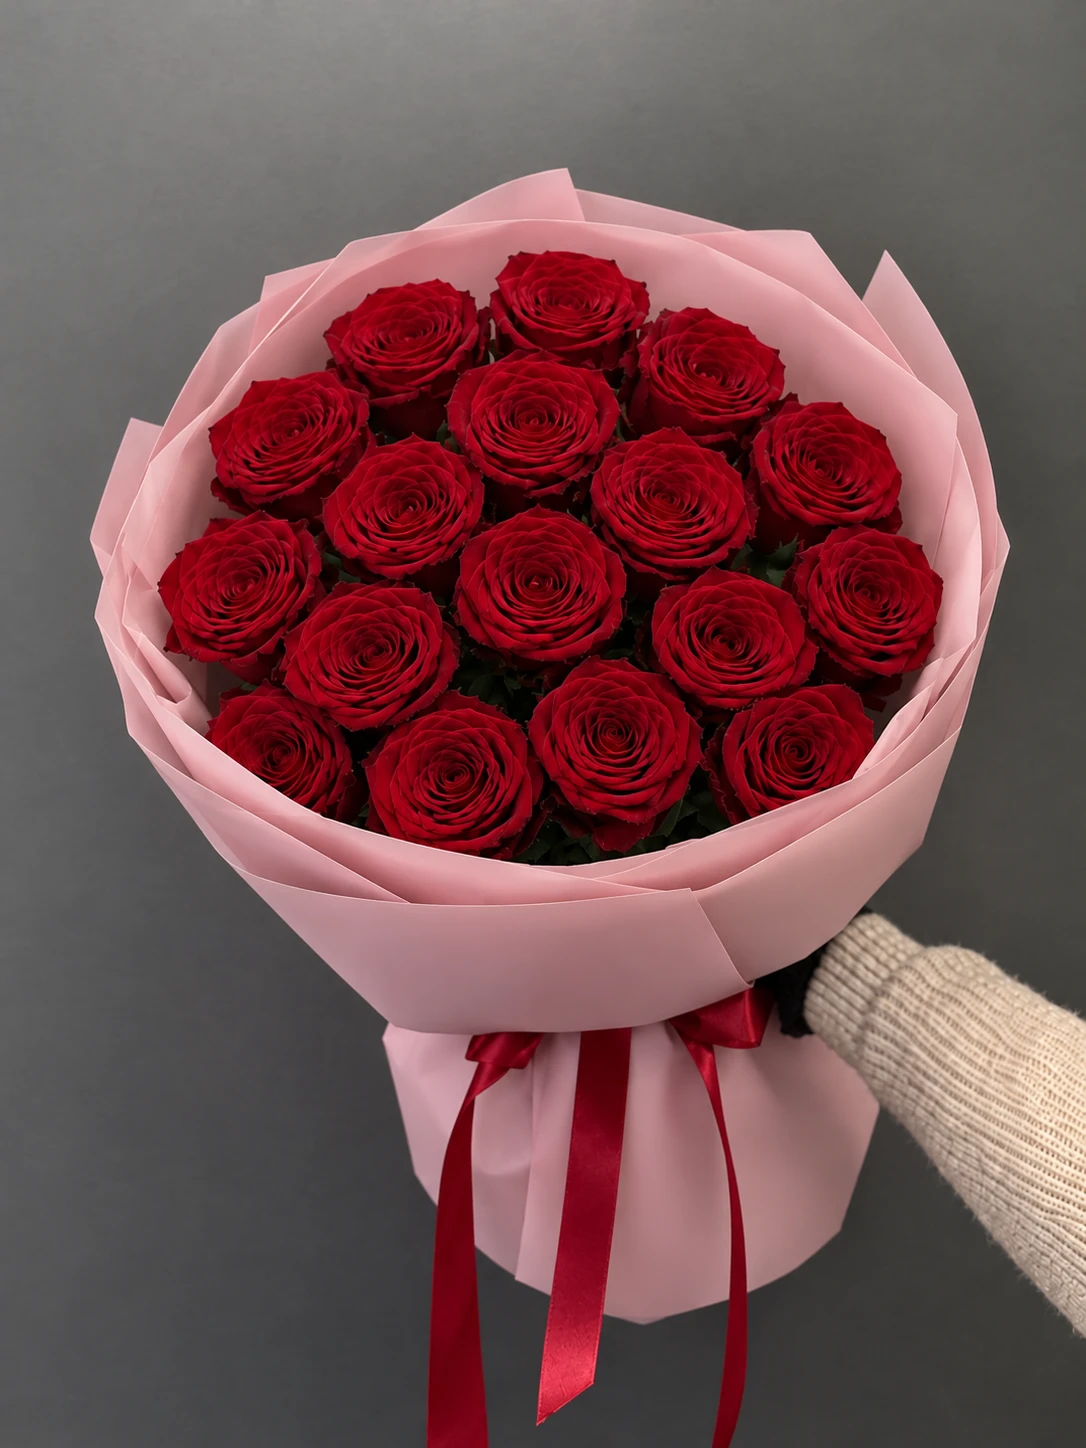
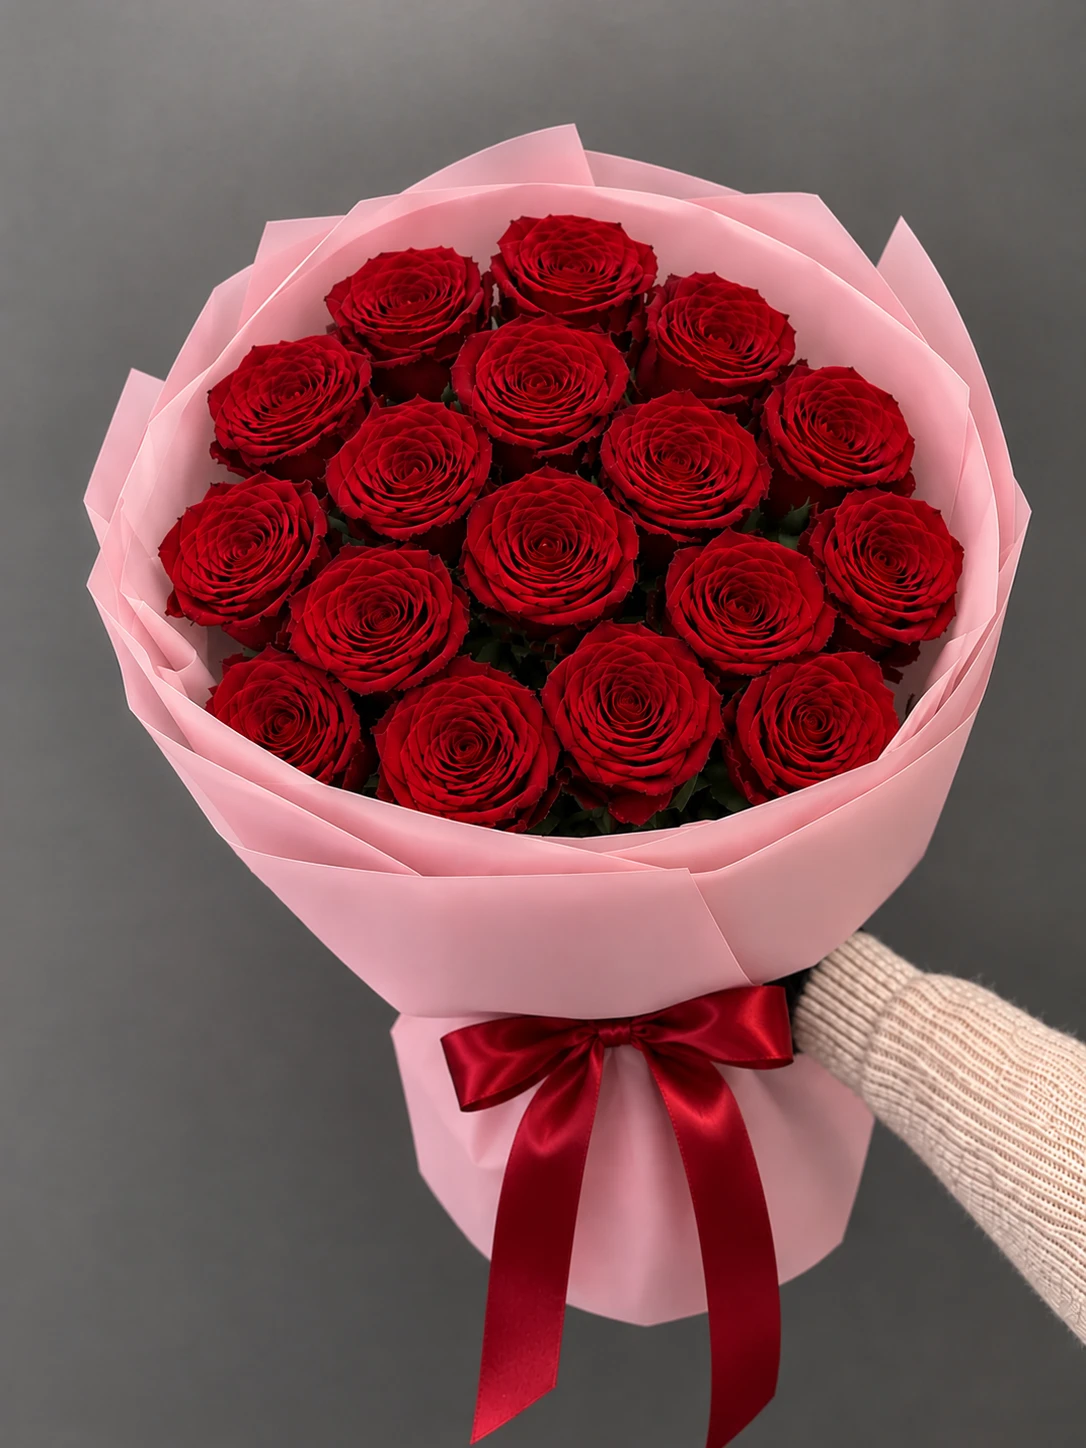
Виправлено шляхи фонових картинок для GitHub Pages (/hana/), фото Classic Red S для всіх комбінацій пакування й стрічки, фото-варіанти для M і L

diff --git a/src/app/core/customization.spec.ts b/src/app/core/customization.spec.ts
@@ -6,6 +6,7 @@ import {
   describeChoice,
   variantPhoto,
 } from './customization';
+import { PACKAGING_OPTIONS, RIBBON_OPTIONS } from './data/customization-options';
 import { PRODUCTS } from './data/products';
 
 describe('персоналізація готових букетів', () => {
@@ -55,16 +56,30 @@ describe('персоналізація готових букетів', () => {
     expect(variantPhoto(red, 'S', 'powder', 'red')).toEqual({ src: 'flowers/classic-red-s-powder-red.webp', exact: true });
     expect(variantPhoto(red, 'S', null, 'pink')?.src).toContain('none-pink');
     expect(variantPhoto(red, 'S', null, 'blue')?.exact).toBe(true);
+    expect(variantPhoto(red, 'S', 'white-matte', 'pink')).toEqual({ src: 'flowers/classic-red-s-white-matte-pink.webp', exact: true });
+    expect(variantPhoto(red, 'S', 'white-matte', 'blue')).toEqual({ src: 'flowers/classic-red-s-white-matte-blue.webp', exact: true });
+  });
+
+  it('є фото для кожної комбінації пакування й стрічки (розмір S)', () => {
+    const red = PRODUCTS.find((p) => p.id === 'classic-red')!;
+    for (const pack of PACKAGING_OPTIONS.map((o) => o.id).concat([null as unknown as string])) {
+      for (const ribbon of RIBBON_OPTIONS.map((o) => o.id)) {
+        expect(variantPhoto(red, 'S', pack, ribbon)?.exact, `${pack}|${ribbon}`).toBe(true);
+      }
+    }
   });
 
   it('якщо точної комбінації немає — найближче фото з позначкою «умовне»', () => {
     const red = PRODUCTS.find((p) => p.id === 'classic-red')!;
-    // пудрове з рожевою стрічкою не фотографували: беремо пудрове з іншою стрічкою
-    expect(variantPhoto(red, 'S', 'powder', 'pink')).toEqual({ src: 'flowers/classic-red-s-powder-red.webp', exact: false });
+    // невідоме пакування: беремо фото з тією самою стрічкою, але позначаємо як умовне
+    expect(variantPhoto(red, 'S', 'unknown', 'pink')?.exact).toBe(false);
+    expect(variantPhoto(red, 'S', 'unknown', 'pink')?.src).toContain('-pink');
     // такого пакування на фото немає зовсім: беремо фото з тією ж стрічкою
     expect(variantPhoto(red, 'S', 'unknown', 'pink')?.exact).toBe(false);
-    // розмір без фото-варіантів
-    expect(variantPhoto(red, 'M', 'powder', 'red')).toBeNull();
+    // розмір без власних фото-варіантів: беремо фото іншого розміру, але позначаємо як умовне
+    expect(variantPhoto(red, 'M', 'powder', 'red')).toEqual({ src: 'flowers/classic-red-s-powder-red.webp', exact: false });
+    // товар без фото-варіантів взагалі
+    expect(variantPhoto(PRODUCTS.find((p) => !p.photoVariants)!, 'M', 'powder', 'red')).toBeNull();
   });
 
   it('різні налаштування одного букета мають різні ключі в кошику', () => {

diff --git a/src/app/core/customization.ts b/src/app/core/customization.ts
@@ -88,7 +88,8 @@ export interface VariantPhoto {
 
 /**
  * Фото букета для обраних пакування й стрічки. Спершу точний збіг, далі — те саме пакування
- * з іншою стрічкою, далі — та сама стрічка. Якщо для розміру немає жодного варіанта — null.
+ * з іншою стрічкою, далі — та сама стрічка. Якщо для обраного розміру фото-варіантів немає, беремо варіанти
+ * іншого розміру (exact = false), щоб зміна пакування й стрічки завжди була видна. Без жодних варіантів — null.
  */
 export function variantPhoto(
   product: Product,
@@ -96,12 +97,14 @@ export function variantPhoto(
   packagingId: string | null,
   ribbonId: string | null,
 ): VariantPhoto | null {
-  const variants = product.photoVariants?.[size ?? 'M'];
+  const own = product.photoVariants?.[size ?? 'M'];
+  const variants = own ?? Object.values(product.photoVariants ?? {})[0];
   if (!variants) return null;
+  const sizeMatches = !!own;
   const pack = packagingId ?? 'none';
   const ribbon = ribbonId ?? 'none';
   const exact = variants[`${pack}|${ribbon}`];
-  if (exact) return { src: exact, exact: true };
+  if (exact) return { src: exact, exact: sizeMatches };
   const entries = Object.entries(variants);
   const samePack = entries.find(([k]) => k.startsWith(`${pack}|`));
   if (samePack) return { src: samePack[1], exact: false };

diff --git a/src/app/core/data/products.ts b/src/app/core/data/products.ts
@@ -26,10 +26,18 @@ export const PRODUCTS: Product[] = [
     },
     photoVariants: {
       S: {
-        'white-matte|red': 'flowers/classic-red-s.jpg',
+        'white-matte|red': 'flowers/classic-red-s-white-matte-red.webp',
         'white-matte|milk': 'flowers/classic-red-s-white-matte-milk.webp',
+        'white-matte|pink': 'flowers/classic-red-s-white-matte-pink.webp',
+        'white-matte|blue': 'flowers/classic-red-s-white-matte-blue.webp',
         'powder|red': 'flowers/classic-red-s-powder-red.webp',
+        'powder|milk': 'flowers/classic-red-s-powder-milk.webp',
+        'powder|pink': 'flowers/classic-red-s-powder-pink.webp',
+        'powder|blue': 'flowers/classic-red-s-powder-blue.webp',
         'transparent|red': 'flowers/classic-red-s-transparent-red.webp',
+        'transparent|milk': 'flowers/classic-red-s-transparent-milk.webp',
+        'transparent|pink': 'flowers/classic-red-s-transparent-pink.webp',
+        'transparent|blue': 'flowers/classic-red-s-transparent-blue.webp',
         'none|red': 'flowers/classic-red-s-none-red.webp',
         'none|milk': 'flowers/classic-red-s-none-milk.webp',
         'none|pink': 'flowers/classic-red-s-none-pink.webp',

diff --git a/src/index.html b/src/index.html
@@ -17,6 +17,19 @@
         document.documentElement.dataset.theme = t;
       } catch (e) {}
     </script>
+    <style>
+      /* Фонові картинки: відносні шляхи від <base href>, щоб сайт працював і з кореня, і з підпапки GitHub Pages (/hana/) */
+      :root {
+        --img-cart-dark-bg: url('flowers/cart-dark-bg.jpg');
+        --img-fav-dark-bg: url('flowers/fav-dark-bg.jpg');
+        --img-catalog-ref-left: url('flowers/catalog-ref-left.png');
+        --img-catalog-dark-left-top: url('flowers/catalog-dark-left-top.png');
+        --img-catalog-dark-left: url('flowers/catalog-dark-left.png');
+        --img-home-hero-bg: url('flowers/home-hero-bg.jpg');
+        --img-catalog-tile-left: url('flowers/catalog-tile-left.png');
+        --img-catalog-tile-right: url('flowers/catalog-tile-right.png');
+      }
+    </style>
     <link rel="icon" type="image/png" href="favicon.png" />
     <link rel="preconnect" href="https://fonts.googleapis.com" />
     <link rel="preconnect" href="https://fonts.gstatic.com" crossorigin />

diff --git a/src/app/pages/catalog/catalog.scss b/src/app/pages/catalog/catalog.scss
@@ -75,14 +75,14 @@
 
 .side--left {
   left: 0;
-  background-image: url('/flowers/catalog-ref-left.png');
+  background-image: var(--img-catalog-ref-left);
 }
 
 .side--right {
   right: 0;
   top: 25.6vw;
   width: 10.3vw;
-  background-image: url('/flowers/catalog-ref-left.png');
+  background-image: var(--img-catalog-ref-left);
   transform: scaleX(-1);
 }
 
@@ -126,21 +126,21 @@
   left: 0;
   bottom: auto;
   height: 4.6vw;
-  background-image: url('/flowers/catalog-dark-left-top.png');
+  background-image: var(--img-catalog-dark-left-top);
   background-repeat: no-repeat;
 }
 
 .side--dark-left {
   left: 0;
   top: 4.55vw;
-  background-image: url('/flowers/catalog-dark-left.png');
+  background-image: var(--img-catalog-dark-left);
 }
 
 .side--dark-right {
   right: 0;
   top: 16.3vw;
   width: 10.3vw;
-  background-image: url('/flowers/catalog-dark-left.png');
+  background-image: var(--img-catalog-dark-left);
   background-position: 0 -6.1vw;
   transform: scaleX(-1);
 }

diff --git a/src/app/pages/home/home.scss b/src/app/pages/home/home.scss
@@ -8,7 +8,7 @@
   min-height: 100svh;
   overflow: hidden;
   isolation: isolate;
-  background: #f7e8e4 url('/flowers/home-hero-bg.jpg') center bottom / cover no-repeat;
+  background: #f7e8e4 var(--img-home-hero-bg) center bottom / cover no-repeat;
 }
 
 :host-context([data-theme='dark']) .hero {
@@ -21,7 +21,7 @@
   position: absolute;
   inset: 0;
   z-index: -1;
-  background: url('/flowers/home-hero-bg.jpg') center bottom / cover no-repeat;
+  background: var(--img-home-hero-bg) center bottom / cover no-repeat;
   opacity: 0.22;
 }
 
@@ -206,12 +206,12 @@
 
 .side--left {
   left: 0;
-  background-image: url('/flowers/catalog-tile-left.png');
+  background-image: var(--img-catalog-tile-left);
 }
 
 .side--right {
   right: 0;
-  background-image: url('/flowers/catalog-tile-right.png');
+  background-image: var(--img-catalog-tile-right);
   background-position: right 0;
 }
 

diff --git a/src/app/pages/cart/cart.scss b/src/app/pages/cart/cart.scss
@@ -15,7 +15,7 @@
 
 :host-context([data-theme='dark']) .cart-page {
   /* темна тема: готове фото з яскравими піонами */
-  background: #252d1a url('/flowers/cart-dark-bg.jpg') center bottom / cover no-repeat;
+  background: #252d1a var(--img-cart-dark-bg) center bottom / cover no-repeat;
 }
 
 /* у темній темі весь вручну складений декор ховаємо: його замінює фото */
@@ -500,7 +500,7 @@ a.name:hover {
 }
 
 :host-context([data-theme='dark']) .cart-page.is-empty {
-  background: #252d1a url('/flowers/fav-dark-bg.jpg') center bottom / cover no-repeat;
+  background: #252d1a var(--img-fav-dark-bg) center bottom / cover no-repeat;
 }
 
 @media (max-width: 900px) {

diff --git a/src/app/pages/bouquet-customizer/bouquet-customizer.html b/src/app/pages/bouquet-customizer/bouquet-customizer.html
@@ -25,7 +25,7 @@
           @if (approximate()) {
             <p class="fixed-note">
               <app-icon name="clock" [size]="16" />
-              Фото умовне: саме з такою комбінацією пакування й стрічки ми збираємо букет на замовлення.
+              Фото умовне: букет ми збираємо на замовлення саме з обраними розміром, пакуванням і стрічкою.
             </p>
           }
         </div>

diff --git a/src/app/pages/favorites/favorites.ts b/src/app/pages/favorites/favorites.ts
@@ -54,7 +54,7 @@ import { ProductCard } from '../../shared/product-card/product-card';
     }
     :host-context([data-theme='dark']) .fav-page {
       /* темна тема: готове фото з яскравими піонами */
-      background: #252d1a url('/flowers/fav-dark-bg.jpg') center bottom / cover no-repeat;
+      background: #252d1a var(--img-fav-dark-bg) center bottom / cover no-repeat;
     }
     :host-context([data-theme='dark']) .decor {
       display: none;

diff --git a/src/app/pages/customize-bouquet/customize-bouquet.scss b/src/app/pages/customize-bouquet/customize-bouquet.scss
@@ -14,7 +14,7 @@
 }
 
 :host-context([data-theme='dark']) .page {
-  background: #252d1a url('/flowers/fav-dark-bg.jpg') center bottom / cover no-repeat;
+  background: #252d1a var(--img-fav-dark-bg) center bottom / cover no-repeat;
 }
 
 :host-context([data-theme='dark']) .decor {
